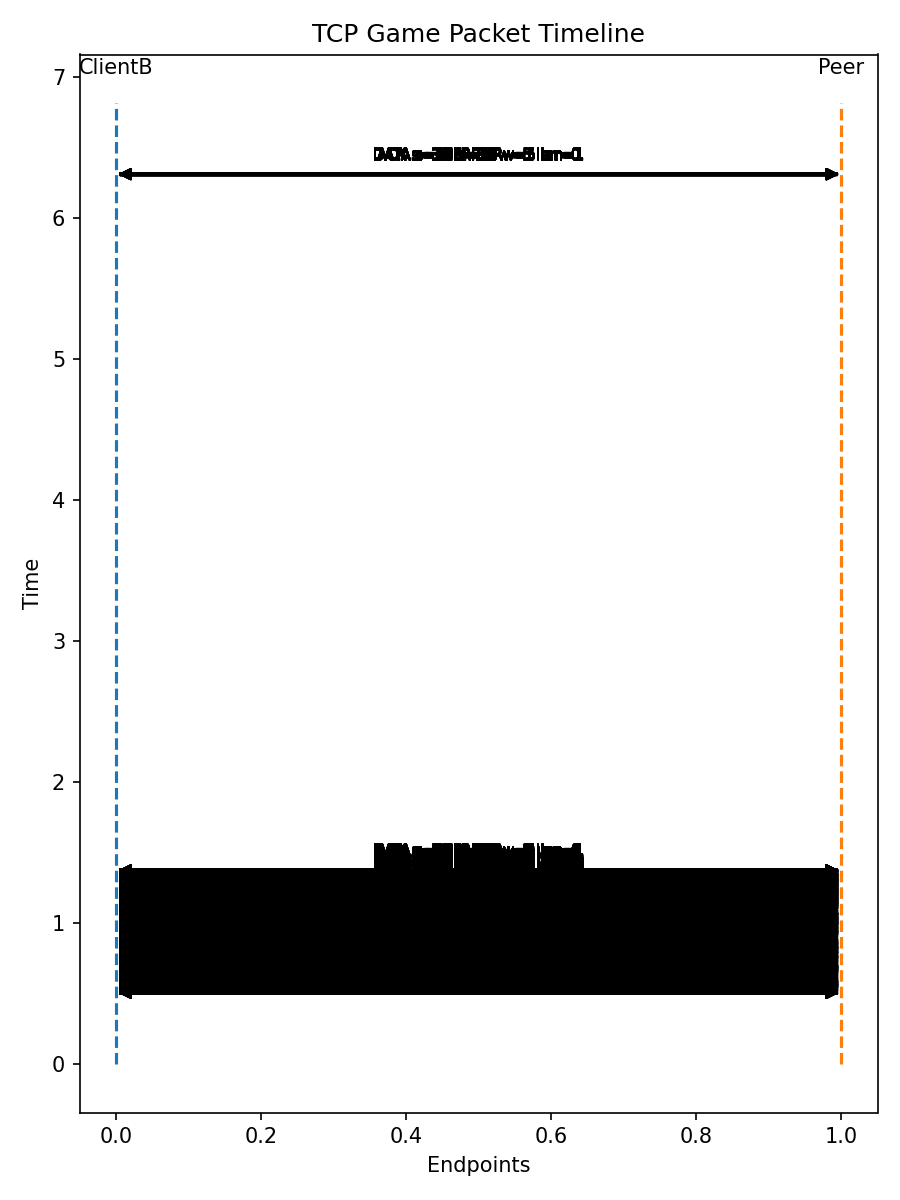
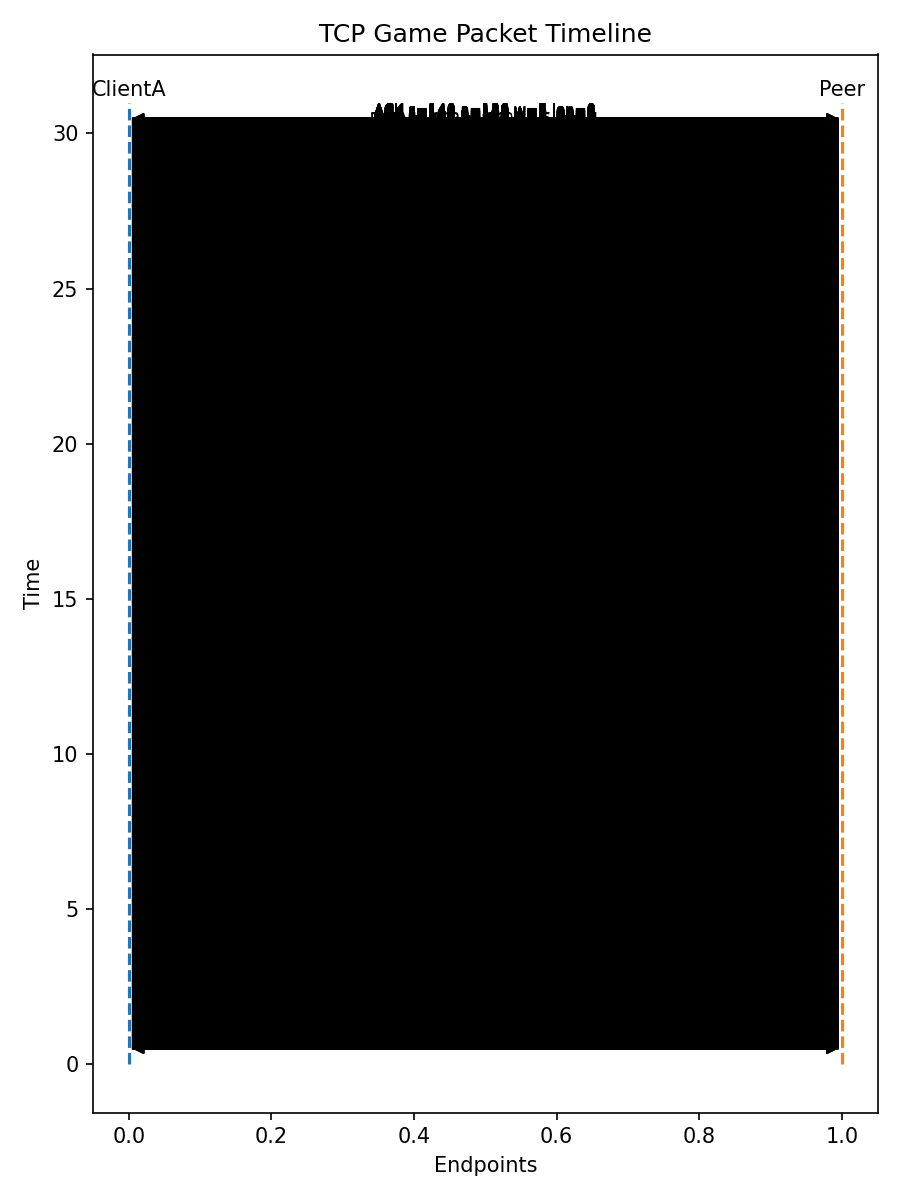
make-up

diff --git a/core/game_logic.py b/core/game_logic.py
@@ -6,7 +6,7 @@ from utils.logger import get_logger
 from utils.config import (
     GAME_DURATION_SECONDS,
     RESPONSE_TIMEOUT_SECONDS,
-    MAX_RWND,
+    MAX_RWND,TIMELINE_PLOT_FILE,
 )
 from .packet import Packet
 from .validator import PacketValidator
@@ -154,16 +154,22 @@ class GameLogic:
         my_turn_to_send = self.starts_first
 
         try:
-            while time.time() - start_time < GAME_DURATION_SECONDS:
-                remaining = int(GAME_DURATION_SECONDS - (time.time() - start_time))
-                self.logger.info(f"Remaining time: {remaining}s | {self.scoreboard.snapshot()}")
+            while True:
+                elapsed = time.time() - start_time
+                remaining = GAME_DURATION_SECONDS - elapsed
+
+                # SÜRE KONTROLÜ: önce bunu yap
+                if remaining <= 0:
+                    self.logger.info(f"Remaining time: 0s | {self.scoreboard.snapshot()}")
+                    break
+
+                # Buradan sonrası sadece süre > 0 iken çalışır
+                self.logger.info(f"Remaining time: {int(remaining)}s | {self.scoreboard.snapshot()}")
 
                 if my_turn_to_send:
-                    # Our turn to generate DATA packet
                     try:
                         pkt = self._create_next_data_packet()
                     except RuntimeError:
-                        # Window full – we just send an ACK-only packet to keep flow
                         ack = self.validator.peer.last_seq + self.validator.peer.last_len
                         pkt = Packet.make_ack(
                             seq=self.gbn.state.next_seq,
@@ -171,27 +177,24 @@ class GameLogic:
                             rwnd=self.current_rwnd,
                             comment="Window full, ACK-only",
                         )
-
                     self._send_packet(pkt)
                     my_turn_to_send = False
                 else:
-                    # Wait for peer's packet and respond (ACK or ERROR).
                     try:
                         pkt = self._receive_packet()
                     except TimeoutError:
-                        # Peer didn't respond in 30 seconds → they lose 1 point
                         self.logger.warning("Peer timeout → we gain +1")
                         self.scoreboard.opponent_timeout()
                         my_turn_to_send = True
                         continue
                     except ConnectionError as e:
-                        # Peer closed / reset connection → oyun burada biter
                         self.logger.warning(f"Connection closed by peer: {e}. Ending game loop.")
                         break
 
-                    # Answer them (ACK / ERROR)
                     self._respond_to_incoming(pkt)
                     my_turn_to_send = True
+                    time.sleep(0.01)  # 10ms bekle, terminali rahatlatır
+
 
         except (TimeoutError, ConnectionError) as e:
             self.logger.warning(f"Game ended due to connection problem: {e}")
@@ -200,23 +203,25 @@ class GameLogic:
             self._plot_timeline()
             self.conn.close()
             self.logger.info(f"Final score: {self.scoreboard.snapshot()}")
+
+
     
     def _plot_timeline(self):
         """
-        Oyunda gönderilen/alınan tüm paketlerin zaman çizelgesini çizer.
-        utils.timeline_plot.plot_timeline fonksiyonunu kullanır.
+        Toplanan timeline eventlerini kullanarak grafik oluşturur.
+        utils.timeline_plot.plot_timeline fonksiyonunu çağırır.
         """
         if not self.timeline:
             self.logger.info("Timeline boş, çizilecek event yok.")
             return
 
         try:
-            # timeline_plot.plot_timeline nasıl tanımlıysa ona göre argüman veriyoruz.
-            # En basit hali: sadece event listesini ver.
-            plot_timeline(self.timeline)
-            self.logger.info("Timeline grafiği başarıyla oluşturuldu.")
+            # Burada senin plot_timeline(events, output_file="timeline.png") fonksiyonunu kullanıyoruz
+            plot_timeline(self.timeline, TIMELINE_PLOT_FILE)
+            self.logger.info(f"Timeline grafiği kaydedildi: {TIMELINE_PLOT_FILE}")
         except Exception as e:
-            self.logger.warning(f"Timeline çizimi sırasında hata: {e}")
+            self.logger.warning(f"Timeline çizimi sırasında hata oluştu: {e}")
+
 
 
 

diff --git a/utils/config.py b/utils/config.py
@@ -7,11 +7,12 @@ GAME_DURATION_SECONDS = 30      # 30 saniyelik oyun
 RESPONSE_TIMEOUT_SECONDS = 5    # cevap bekleme süresi 5 sn
 
 MAX_RWND = 5
+TIMELINE_PLOT_FILE = "timeline.png"
 INITIAL_SEQ = 0
 WINDOW_SIZE = 4  # Go-Back-N sliding window size
 
 LOG_DIR = "logs"
-TIMELINE_PLOT_FILE = "timeline.png"
+
 
 ROLE_A_NAME = "ClientA"
 ROLE_B_NAME = "ClientB"
